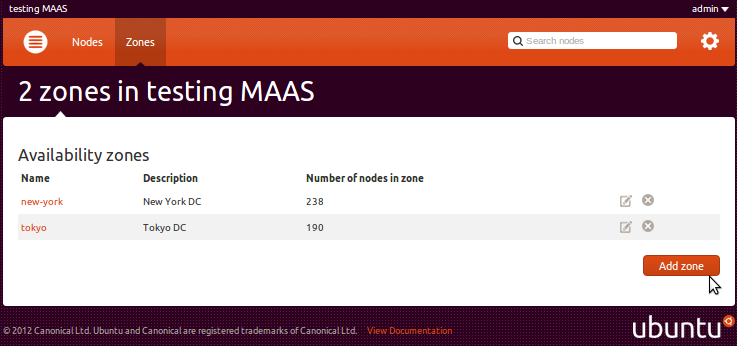
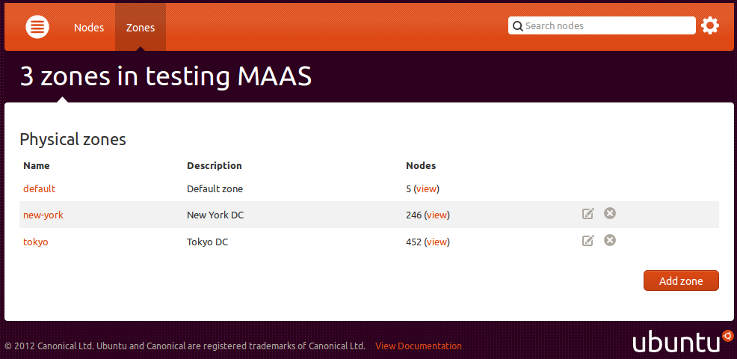
[r=allenap][bug=][author=rvb] Update the documentation about zone to mention the physical zone.

diff --git a/src/maasserver/templates/maasserver/zone_detail.html b/src/maasserver/templates/maasserver/zone_detail.html
@@ -38,13 +38,16 @@ Physical zone: {{ zone.name }}
         (<a href="{{ node_list_link }}">view</a>)
       </span>
     </li>
+    {% if zone.is_default %}
     <li class="block size3">
       <h4>Default</h4>
       <span id="#default">
-        {% if zone.default %}Yes{% else %}No{% endif %}
+        This zone is the default zone.
+	Its name cannot be changed and it cannot be deleted.
       </span>
     </li>
-     <li class="block size12 first">
+    {% endif %}
+    <li class="block size12 first">
       {% if zone.description %}
         <h4>Description</h4>
         <pre>{{ zone.description }}</pre>

diff --git a/src/maasserver/templates/maasserver/zone_list.html b/src/maasserver/templates/maasserver/zone_list.html
@@ -15,7 +15,6 @@
           <tr>
             <th>Name</th>
             <th>Description</th>
-            <th>Default</th>
             <th>Nodes</th>
             {% if user.is_superuser %}
             <th></th>
@@ -32,7 +31,6 @@
               </a>
             </td>
             <td>{{ zone_item.description|truncatechars:40 }}</td>
-            <td>{% if zone_item.is_default %}Yes{% endif %}</td>
             <td>
               {{ zone_item.node_set.count }}
               (<a href="{% url 'node-list' %}?query=zone%3D{{ zone_item.name }}">view</a>)

diff --git a/src/maasserver/tests/test_views_zones.py b/src/maasserver/tests/test_views_zones.py
@@ -305,18 +305,14 @@ class ZoneDeleteAdminTest(AdminLoggedInTestCase):
                 reverse('zone-del', args=[DEFAULT_ZONE_NAME]),
                 {'post': 'yes'})
         except ValidationError:
-            # XXX: Right now, this generates an error because the deletion
+            # Right now, this generates an error because the deletion
             # is prevented in the model code and not at the form level.
             # This is not so bad because we make sure that the deletion link
-            # for the default zone isn't showed anywhere.
-            # Still, ideally, once the validation happens at the form level,
-            # this try/except statement should be removed and this test
-            # should be extended further to check that the reponse to
-            # the above self.client.post indicates a failure to validate
-            # the data.
+            # for the default zone isn't shown anywhere.
+            # If we move validation to the form level, this exception goes
+            # away and we'll have to check the HTTP response for a validation
+            # failure.
             pass
-
-        # TODO: check that the page failed to validate the data.
 
         # The default zone is still there.
         self.assertIsNotNone(Zone.objects.get_default_zone())

diff --git a/src/maasserver/tests/test_forms.py b/src/maasserver/tests/test_forms.py
@@ -1284,7 +1284,7 @@ class TestZoneForm(MAASServerTestCase):
         self.assertEqual(new_name, zone.name)
         self.assertEqual(zone, Zone.objects.get(name=new_name))
 
-    def test_updates_default_zone_description_works(self):
+    def test_update_default_zone_description_works(self):
         zone = Zone.objects.get_default_zone()
         new_description = factory.getRandomString()
         form = ZoneForm(data={'description': new_description}, instance=zone)

diff --git a/docs/physical-zones.rst b/docs/physical-zones.rst
@@ -12,8 +12,8 @@ to the same UPS, or a portion of your network.  Zones are most useful when they
 represent portions of your infrastructure.  But you could also use them simply
 to keep track of where your systems are located.
 
-Each node can be in at most one physical zone.  In a default setup, no
-zones are defined and a node will not be in any zone at all.  If you do not
+Each node is in one and only one physical zone.  Each MAAS instance ships with
+a default zone to which nodes are attached by default.  If you do not
 need this feature, you can simply pretend it does not exist.
 
 
